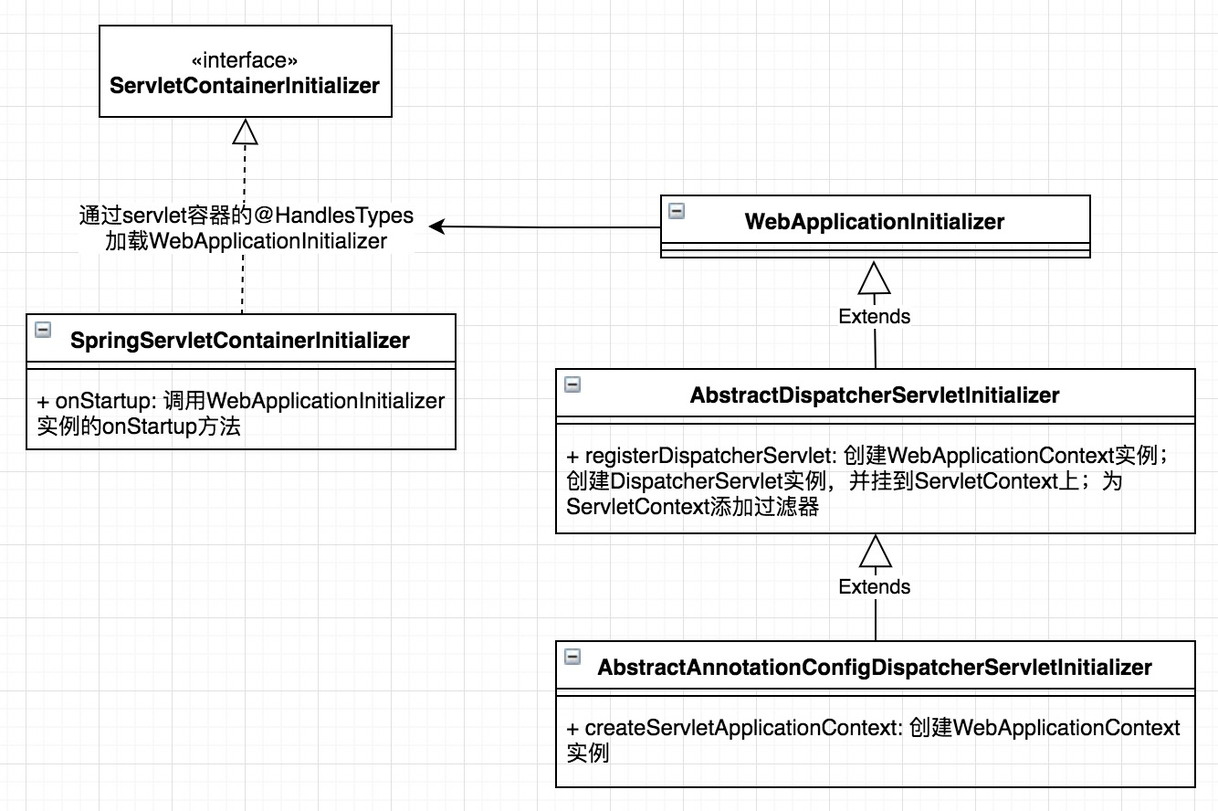
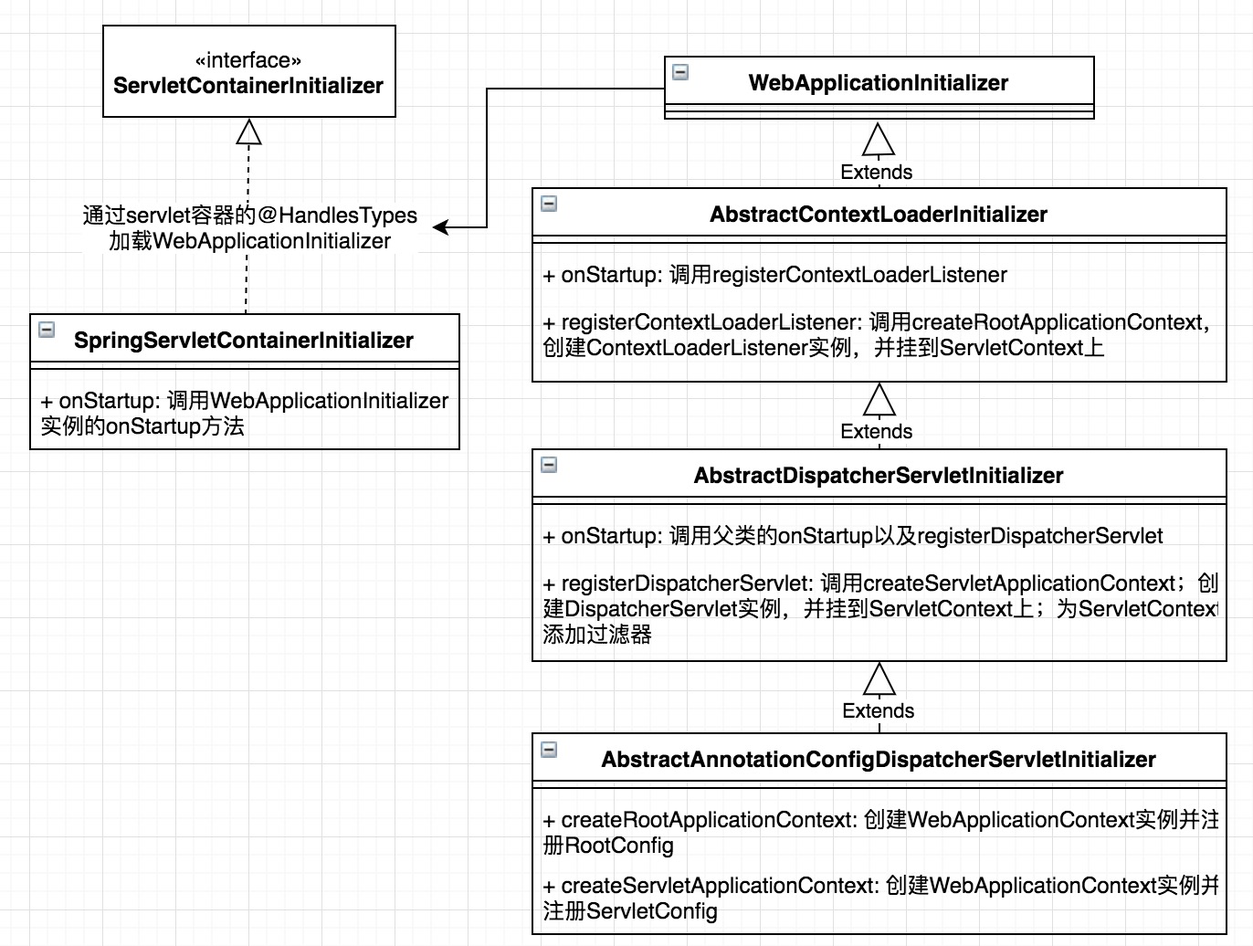
Site updated: 2020-01-02 22:59:12

diff --git a/2020/01/01/java/我看 spring mvc/index.html b/2020/01/01/java/我看 spring mvc/index.html
@@ -103,22 +103,22 @@
   <meta name="keywords" content="analyst,">
 
 
-<meta name="description" content="spring mvc 基于 前端控制器模式 设计，通过 DispatcherServlet 这个前端控制器将请求交给可配置的委托组件处理，这就能支持请求处理的灵活性。DispatcherServlet 中请求映射、视图解析、异常处理等功能所使用的组件都通过 spring 机制发现。 why@EnableWebMvc@EnableWebMvc 注解会通过 @Import 加载配置类，配置类又会主动查">
+<meta name="description" content="spring mvc 基于 前端控制器模式 设计，通过 DispatcherServlet 这个前端控制器将请求交给可配置的委托组件处理，这就能支持请求处理的灵活性。DispatcherServlet 中请求映射、视图解析、异常处理等功能所使用的组件都通过 spring 机制发现。 whyDispatcherServlet 初始化Servlet3 会主动查询 WebApplicationIniti">
 <meta name="keywords" content="analyst">
 <meta property="og:type" content="article">
 <meta property="og:title" content="我看 spring mvc">
 <meta property="og:url" content="http://yoursite.com/2020/01/01/java/我看 spring mvc/index.html">
 <meta property="og:site_name" content="修子范语">
-<meta property="og:description" content="spring mvc 基于 前端控制器模式 设计，通过 DispatcherServlet 这个前端控制器将请求交给可配置的委托组件处理，这就能支持请求处理的灵活性。DispatcherServlet 中请求映射、视图解析、异常处理等功能所使用的组件都通过 spring 机制发现。 why@EnableWebMvc@EnableWebMvc 注解会通过 @Import 加载配置类，配置类又会主动查">
+<meta property="og:description" content="spring mvc 基于 前端控制器模式 设计，通过 DispatcherServlet 这个前端控制器将请求交给可配置的委托组件处理，这就能支持请求处理的灵活性。DispatcherServlet 中请求映射、视图解析、异常处理等功能所使用的组件都通过 spring 机制发现。 whyDispatcherServlet 初始化Servlet3 会主动查询 WebApplicationIniti">
 <meta property="og:locale" content="zh-CN">
-<meta property="og:image" content="http://yoursite.com/2020/01/01/java/我看%20spring%20mvc/enablewebmvc.png">
 <meta property="og:image" content="http://yoursite.com/2020/01/01/java/我看%20spring%20mvc/dispatchservlet2.png">
+<meta property="og:image" content="http://yoursite.com/2020/01/01/java/我看%20spring%20mvc/enablewebmvc.png">
 <meta property="og:image" content="http://yoursite.com/2020/01/01/java/我看%20spring%20mvc/dispatchservlet.png">
-<meta property="og:updated_time" content="2020-01-01T14:49:15.448Z">
+<meta property="og:updated_time" content="2020-01-02T14:51:03.329Z">
 <meta name="twitter:card" content="summary">
 <meta name="twitter:title" content="我看 spring mvc">
-<meta name="twitter:description" content="spring mvc 基于 前端控制器模式 设计，通过 DispatcherServlet 这个前端控制器将请求交给可配置的委托组件处理，这就能支持请求处理的灵活性。DispatcherServlet 中请求映射、视图解析、异常处理等功能所使用的组件都通过 spring 机制发现。 why@EnableWebMvc@EnableWebMvc 注解会通过 @Import 加载配置类，配置类又会主动查">
-<meta name="twitter:image" content="http://yoursite.com/2020/01/01/java/我看%20spring%20mvc/enablewebmvc.png">
+<meta name="twitter:description" content="spring mvc 基于 前端控制器模式 设计，通过 DispatcherServlet 这个前端控制器将请求交给可配置的委托组件处理，这就能支持请求处理的灵活性。DispatcherServlet 中请求映射、视图解析、异常处理等功能所使用的组件都通过 spring 机制发现。 whyDispatcherServlet 初始化Servlet3 会主动查询 WebApplicationIniti">
+<meta name="twitter:image" content="http://yoursite.com/2020/01/01/java/我看%20spring%20mvc/dispatchservlet2.png">
 
 
 
@@ -399,9 +399,12 @@
 
       
         <p>spring mvc 基于 <a href="https://www.jianshu.com/p/11cbdc87900c" target="_blank" rel="noopener">前端控制器模式</a> 设计，通过 DispatcherServlet 这个前端控制器将请求交给可配置的委托组件处理，这就能支持请求处理的灵活性。DispatcherServlet 中请求映射、视图解析、异常处理等功能所使用的组件都通过 spring 机制发现。</p>
-<h2 id="why"><a href="#why" class="headerlink" title="why"></a>why</h2><h3 id="EnableWebMvc"><a href="#EnableWebMvc" class="headerlink" title="@EnableWebMvc"></a>@EnableWebMvc</h3><p>@EnableWebMvc 注解会通过 @Import 加载配置类，配置类又会主动查找添加了 @Controller、@RestController 注解的 bean，并注册到 HandlerMapping 中，以便在请求触达时使用。</p>
+<h2 id="why"><a href="#why" class="headerlink" title="why"></a>why</h2><h3 id="DispatcherServlet-初始化"><a href="#DispatcherServlet-初始化" class="headerlink" title="DispatcherServlet 初始化"></a>DispatcherServlet 初始化</h3><p>Servlet3 会主动查询 WebApplicationInitializer 接口的实现类，同时会执行 WebApplicationInitializer 实现类的 onStartup 方法。通过该方法，它会创建 spring 应用上下文并加载 bean（两个应用上下文：一个为 DispatcherServlet 加载控制器、视图解析器；一个加载中间层和数据层组件），它同时会创建 DispatcherServlet 实例，且将 DispatcherServlet 实例和 web 过滤器挂载到 ServletContext 上。</p>
+<img src="/2020/01/01/java/我看%20spring%20mvc/dispatchservlet2.png">
+<h4 id="应用"><a href="#应用" class="headerlink" title="应用"></a>应用</h4><p>以下示例单纯使用 spring + spring webmvc 的场景，没有使用 spring boot。</p>
+<figure class="highlight java"><table><tr><td class="gutter"><pre><span class="line">1</span><br><span class="line">2</span><br><span class="line">3</span><br><span class="line">4</span><br><span class="line">5</span><br><span class="line">6</span><br><span class="line">7</span><br><span class="line">8</span><br><span class="line">9</span><br><span class="line">10</span><br><span class="line">11</span><br><span class="line">12</span><br><span class="line">13</span><br><span class="line">14</span><br><span class="line">15</span><br><span class="line">16</span><br><span class="line">17</span><br><span class="line">18</span><br><span class="line">19</span><br><span class="line">20</span><br><span class="line">21</span><br><span class="line">22</span><br><span class="line">23</span><br><span class="line">24</span><br><span class="line">25</span><br></pre></td><td class="code"><pre><span class="line"><span class="keyword">public</span> <span class="class"><span class="keyword">class</span> <span class="title">MyWebAppInitializer</span> <span class="keyword">extends</span> <span class="title">AbstractAnnotationConfigDispatcherServletInitializer</span> </span>&#123;</span><br><span class="line">  <span class="comment">// 为其中一个 spring 应用上下文（加载数据层组件）指定 RootConfig 配置类</span></span><br><span class="line">  <span class="meta">@Override</span></span><br><span class="line">  <span class="keyword">protected</span> Class&lt;?&gt;[] getRootConfigClasses() &#123;</span><br><span class="line">    <span class="keyword">return</span> <span class="keyword">null</span>;</span><br><span class="line">  &#125;</span><br><span class="line"></span><br><span class="line">  <span class="comment">// 为其中一个 spring 应用上下文（加载控制器）指定 ServletConfig 配置类</span></span><br><span class="line">  <span class="meta">@Override</span></span><br><span class="line">  <span class="keyword">protected</span> Class&lt;?&gt;[] getServletConfigClasses() &#123;</span><br><span class="line">    <span class="keyword">return</span> <span class="keyword">new</span> Class&lt;?&gt;[] &#123; MyWebConfig.class &#125;;</span><br><span class="line">  &#125;</span><br><span class="line"></span><br><span class="line">  <span class="comment">// 指定 DispatcherServlet 处理的路由</span></span><br><span class="line">  <span class="meta">@Override</span></span><br><span class="line">  <span class="keyword">protected</span> String[] getServletMappings() &#123;</span><br><span class="line">    <span class="keyword">return</span> <span class="keyword">new</span> String[] &#123; <span class="string">"/"</span> &#125;;</span><br><span class="line">  &#125;</span><br><span class="line"></span><br><span class="line">  <span class="comment">// 指定过滤器</span></span><br><span class="line">  <span class="meta">@Override</span></span><br><span class="line">  <span class="keyword">protected</span> Filter[] getServletFilters() &#123;</span><br><span class="line">    <span class="keyword">return</span> <span class="keyword">new</span> Filter[] &#123; <span class="keyword">new</span> HiddenHttpMethodFilter() &#125;;</span><br><span class="line">  &#125;</span><br><span class="line">&#125;</span><br></pre></td></tr></table></figure>
+<h3 id="EnableWebMvc"><a href="#EnableWebMvc" class="headerlink" title="@EnableWebMvc"></a>@EnableWebMvc</h3><p>@EnableWebMvc 注解会通过 @Import 加载配置类，配置类又会主动查找添加了 @Controller、@RestController 注解的 bean，并注册到 HandlerMapping 中，以便在请求触达时使用。</p>
 <img src="/2020/01/01/java/我看%20spring%20mvc/enablewebmvc.png">
-<h3 id="DispatcherServlet-初始化"><a href="#DispatcherServlet-初始化" class="headerlink" title="DispatcherServlet 初始化"></a>DispatcherServlet 初始化</h3><img src="/2020/01/01/java/我看%20spring%20mvc/dispatchservlet2.png">
 <h3 id="DispatcherServlet-处理请求"><a href="#DispatcherServlet-处理请求" class="headerlink" title="DispatcherServlet 处理请求"></a>DispatcherServlet 处理请求</h3><ol>
 <li>请求触达，DispatcherServlet#doGet 等方法接受到请求。</li>
 <li>DispatcherServlet#doDispatch 阶段，路由找出 Handler（即 Controller）。</li>
@@ -417,7 +420,7 @@
 <li>ViewResolver 视图解析器；LocaleResolver, LocaleContextResolver 国际化；ThemeResolver 个性化；MultipartResolver 解析文件上传请求；FlashMapManager 闪存。</li>
 </ul>
 <figure class="highlight java"><table><tr><td class="gutter"><pre><span class="line">1</span><br><span class="line">2</span><br><span class="line">3</span><br><span class="line">4</span><br><span class="line">5</span><br><span class="line">6</span><br><span class="line">7</span><br><span class="line">8</span><br><span class="line">9</span><br><span class="line">10</span><br><span class="line">11</span><br><span class="line">12</span><br><span class="line">13</span><br><span class="line">14</span><br><span class="line">15</span><br><span class="line">16</span><br><span class="line">17</span><br><span class="line">18</span><br><span class="line">19</span><br><span class="line">20</span><br><span class="line">21</span><br><span class="line">22</span><br><span class="line">23</span><br><span class="line">24</span><br><span class="line">25</span><br><span class="line">26</span><br><span class="line">27</span><br><span class="line">28</span><br><span class="line">29</span><br><span class="line">30</span><br><span class="line">31</span><br><span class="line">32</span><br><span class="line">33</span><br><span class="line">34</span><br><span class="line">35</span><br><span class="line">36</span><br><span class="line">37</span><br><span class="line">38</span><br><span class="line">39</span><br><span class="line">40</span><br><span class="line">41</span><br><span class="line">42</span><br><span class="line">43</span><br><span class="line">44</span><br><span class="line">45</span><br><span class="line">46</span><br><span class="line">47</span><br><span class="line">48</span><br></pre></td><td class="code"><pre><span class="line"><span class="keyword">public</span> <span class="keyword">abstract</span> <span class="class"><span class="keyword">class</span> <span class="title">FrameworkServlet</span> <span class="keyword">extends</span> <span class="title">HttpServletBean</span> <span class="keyword">implements</span> <span class="title">ApplicationContextAware</span> </span>&#123;</span><br><span class="line">  <span class="comment">// 重新加载应用的配置，作为 startup 方法</span></span><br><span class="line">	<span class="function"><span class="keyword">public</span> <span class="keyword">void</span> <span class="title">refresh</span><span class="params">()</span> </span>&#123;</span><br><span class="line">		WebApplicationContext wac = getWebApplicationContext();</span><br><span class="line">		<span class="keyword">if</span> (!(wac <span class="keyword">instanceof</span> ConfigurableApplicationContext)) &#123;</span><br><span class="line">			<span class="keyword">throw</span> <span class="keyword">new</span> IllegalStateException(<span class="string">"WebApplicationContext does not support refresh: "</span> + wac);</span><br><span class="line">		&#125;</span><br><span class="line">		((ConfigurableApplicationContext) wac).refresh();</span><br><span class="line">	&#125;</span><br><span class="line"></span><br><span class="line">  <span class="comment">// 其他 doPost、doPut、doDelete 等方法都会调用 processRequest</span></span><br><span class="line">	<span class="meta">@Override</span></span><br><span class="line">	<span class="function"><span class="keyword">protected</span> <span class="keyword">final</span> <span class="keyword">void</span> <span class="title">doGet</span><span class="params">(HttpServletRequest request, HttpServletResponse response)</span></span></span><br><span class="line"><span class="function">			<span class="keyword">throws</span> ServletException, IOException </span>&#123;</span><br><span class="line">		processRequest(request, response);</span><br><span class="line">	&#125;</span><br><span class="line"></span><br><span class="line">	<span class="function"><span class="keyword">protected</span> <span class="keyword">final</span> <span class="keyword">void</span> <span class="title">processRequest</span><span class="params">(HttpServletRequest request, HttpServletResponse response)</span></span></span><br><span class="line"><span class="function">			<span class="keyword">throws</span> ServletException, IOException </span>&#123;</span><br><span class="line">    <span class="comment">// ...</span></span><br><span class="line">    <span class="keyword">try</span> &#123; doService(request, response); &#125;</span><br><span class="line">  &#125;</span><br><span class="line">&#125;</span><br><span class="line"></span><br><span class="line"><span class="keyword">public</span> <span class="class"><span class="keyword">class</span> <span class="title">DispatcherServlet</span> <span class="keyword">extends</span> <span class="title">FrameworkServlet</span> </span>&#123;</span><br><span class="line">	<span class="meta">@Override</span></span><br><span class="line">	<span class="function"><span class="keyword">protected</span> <span class="keyword">void</span> <span class="title">doService</span><span class="params">(HttpServletRequest request, HttpServletResponse response)</span> <span class="keyword">throws</span> Exception </span>&#123;</span><br><span class="line">    <span class="comment">// ...</span></span><br><span class="line">    <span class="keyword">try</span> &#123; doDispatch(request, response); &#125;</span><br><span class="line">  &#125;</span><br><span class="line"></span><br><span class="line">	<span class="function"><span class="keyword">protected</span> <span class="keyword">void</span> <span class="title">doDispatch</span><span class="params">(HttpServletRequest request, HttpServletResponse response)</span> <span class="keyword">throws</span> Exception </span>&#123;</span><br><span class="line">		mappedHandler = getHandler(processedRequest);</span><br><span class="line"></span><br><span class="line">    HandlerAdapter ha = getHandlerAdapter(mappedHandler.getHandler());</span><br><span class="line">    </span><br><span class="line">    <span class="keyword">if</span> (!mappedHandler.applyPreHandle(processedRequest, response)) &#123;</span><br><span class="line">      <span class="keyword">return</span>;</span><br><span class="line">    &#125;</span><br><span class="line"></span><br><span class="line">    mv = ha.handle(processedRequest, response, mappedHandler.getHandler());</span><br><span class="line"></span><br><span class="line">    applyDefaultViewName(processedRequest, mv);</span><br><span class="line">    mappedHandler.applyPostHandle(processedRequest, response, mv);</span><br><span class="line"></span><br><span class="line">    processDispatchResult(processedRequest, response, mappedHandler, mv, dispatchException);</span><br><span class="line">  &#125;</span><br><span class="line">&#125;</span><br></pre></td></tr></table></figure>
-<h2 id="参考"><a href="#参考" class="headerlink" title="参考"></a>参考</h2><p><a href="https://www.jianshu.com/p/6433a07f909c" target="_blank" rel="noopener">理解SpringMvc架构以及流程</a><br><a href="https://blog.csdn.net/u010013573/article/details/86550326" target="_blank" rel="noopener">Spring MVC源码分析（四）：SpringMVC的HandlerMapping和HandlerAdapter的体系结构设计与实现</a><br><a href="https://blog.csdn.net/qq_32328959/article/details/90247411" target="_blank" rel="noopener">Spring Web MVC（一）|前端控制器-DispatcherServlet</a></p>
+<h2 id="参考"><a href="#参考" class="headerlink" title="参考"></a>参考</h2><p><a href="https://docs.spring.io/spring/docs/current/spring-framework-reference/web.html#mvc" target="_blank" rel="noopener">spring 官方文档</a><br><a href="https://www.jianshu.com/p/6433a07f909c" target="_blank" rel="noopener">理解SpringMvc架构以及流程</a><br><a href="https://blog.csdn.net/u010013573/article/details/86550326" target="_blank" rel="noopener">Spring MVC源码分析（四）：SpringMVC的HandlerMapping和HandlerAdapter的体系结构设计与实现</a><br><a href="https://blog.csdn.net/qq_32328959/article/details/90247411" target="_blank" rel="noopener">Spring Web MVC（一）|前端控制器-DispatcherServlet</a></p>
 
       
     </div>
@@ -616,7 +619,7 @@
             
 
             
-              <div class="post-toc-content"><ol class="nav"><li class="nav-item nav-level-2"><a class="nav-link" href="#why"><span class="nav-number">1.</span> <span class="nav-text">why</span></a><ol class="nav-child"><li class="nav-item nav-level-3"><a class="nav-link" href="#EnableWebMvc"><span class="nav-number">1.1.</span> <span class="nav-text">@EnableWebMvc</span></a></li><li class="nav-item nav-level-3"><a class="nav-link" href="#DispatcherServlet-初始化"><span class="nav-number">1.2.</span> <span class="nav-text">DispatcherServlet 初始化</span></a></li><li class="nav-item nav-level-3"><a class="nav-link" href="#DispatcherServlet-处理请求"><span class="nav-number">1.3.</span> <span class="nav-text">DispatcherServlet 处理请求</span></a></li></ol></li><li class="nav-item nav-level-2"><a class="nav-link" href="#参考"><span class="nav-number">2.</span> <span class="nav-text">参考</span></a></li></ol></div>
+              <div class="post-toc-content"><ol class="nav"><li class="nav-item nav-level-2"><a class="nav-link" href="#why"><span class="nav-number">1.</span> <span class="nav-text">why</span></a><ol class="nav-child"><li class="nav-item nav-level-3"><a class="nav-link" href="#DispatcherServlet-初始化"><span class="nav-number">1.1.</span> <span class="nav-text">DispatcherServlet 初始化</span></a><ol class="nav-child"><li class="nav-item nav-level-4"><a class="nav-link" href="#应用"><span class="nav-number">1.1.1.</span> <span class="nav-text">应用</span></a></li></ol></li><li class="nav-item nav-level-3"><a class="nav-link" href="#EnableWebMvc"><span class="nav-number">1.2.</span> <span class="nav-text">@EnableWebMvc</span></a></li><li class="nav-item nav-level-3"><a class="nav-link" href="#DispatcherServlet-处理请求"><span class="nav-number">1.3.</span> <span class="nav-text">DispatcherServlet 处理请求</span></a></li></ol></li><li class="nav-item nav-level-2"><a class="nav-link" href="#参考"><span class="nav-number">2.</span> <span class="nav-text">参考</span></a></li></ol></div>
             
 
           </div>

diff --git a/index.html b/index.html
@@ -398,9 +398,12 @@
         
           
             <p>spring mvc 基于 <a href="https://www.jianshu.com/p/11cbdc87900c" target="_blank" rel="noopener">前端控制器模式</a> 设计，通过 DispatcherServlet 这个前端控制器将请求交给可配置的委托组件处理，这就能支持请求处理的灵活性。DispatcherServlet 中请求映射、视图解析、异常处理等功能所使用的组件都通过 spring 机制发现。</p>
-<h2 id="why"><a href="#why" class="headerlink" title="why"></a>why</h2><h3 id="EnableWebMvc"><a href="#EnableWebMvc" class="headerlink" title="@EnableWebMvc"></a>@EnableWebMvc</h3><p>@EnableWebMvc 注解会通过 @Import 加载配置类，配置类又会主动查找添加了 @Controller、@RestController 注解的 bean，并注册到 HandlerMapping 中，以便在请求触达时使用。</p>
+<h2 id="why"><a href="#why" class="headerlink" title="why"></a>why</h2><h3 id="DispatcherServlet-初始化"><a href="#DispatcherServlet-初始化" class="headerlink" title="DispatcherServlet 初始化"></a>DispatcherServlet 初始化</h3><p>Servlet3 会主动查询 WebApplicationInitializer 接口的实现类，同时会执行 WebApplicationInitializer 实现类的 onStartup 方法。通过该方法，它会创建 spring 应用上下文并加载 bean（两个应用上下文：一个为 DispatcherServlet 加载控制器、视图解析器；一个加载中间层和数据层组件），它同时会创建 DispatcherServlet 实例，且将 DispatcherServlet 实例和 web 过滤器挂载到 ServletContext 上。</p>
+<img src="/2020/01/01/java/我看%20spring%20mvc/dispatchservlet2.png">
+<h4 id="应用"><a href="#应用" class="headerlink" title="应用"></a>应用</h4><p>以下示例单纯使用 spring + spring webmvc 的场景，没有使用 spring boot。</p>
+<figure class="highlight java"><table><tr><td class="gutter"><pre><span class="line">1</span><br><span class="line">2</span><br><span class="line">3</span><br><span class="line">4</span><br><span class="line">5</span><br><span class="line">6</span><br><span class="line">7</span><br><span class="line">8</span><br><span class="line">9</span><br><span class="line">10</span><br><span class="line">11</span><br><span class="line">12</span><br><span class="line">13</span><br><span class="line">14</span><br><span class="line">15</span><br><span class="line">16</span><br><span class="line">17</span><br><span class="line">18</span><br><span class="line">19</span><br><span class="line">20</span><br><span class="line">21</span><br><span class="line">22</span><br><span class="line">23</span><br><span class="line">24</span><br><span class="line">25</span><br></pre></td><td class="code"><pre><span class="line"><span class="keyword">public</span> <span class="class"><span class="keyword">class</span> <span class="title">MyWebAppInitializer</span> <span class="keyword">extends</span> <span class="title">AbstractAnnotationConfigDispatcherServletInitializer</span> </span>&#123;</span><br><span class="line">  <span class="comment">// 为其中一个 spring 应用上下文（加载数据层组件）指定 RootConfig 配置类</span></span><br><span class="line">  <span class="meta">@Override</span></span><br><span class="line">  <span class="keyword">protected</span> Class&lt;?&gt;[] getRootConfigClasses() &#123;</span><br><span class="line">    <span class="keyword">return</span> <span class="keyword">null</span>;</span><br><span class="line">  &#125;</span><br><span class="line"></span><br><span class="line">  <span class="comment">// 为其中一个 spring 应用上下文（加载控制器）指定 ServletConfig 配置类</span></span><br><span class="line">  <span class="meta">@Override</span></span><br><span class="line">  <span class="keyword">protected</span> Class&lt;?&gt;[] getServletConfigClasses() &#123;</span><br><span class="line">    <span class="keyword">return</span> <span class="keyword">new</span> Class&lt;?&gt;[] &#123; MyWebConfig.class &#125;;</span><br><span class="line">  &#125;</span><br><span class="line"></span><br><span class="line">  <span class="comment">// 指定 DispatcherServlet 处理的路由</span></span><br><span class="line">  <span class="meta">@Override</span></span><br><span class="line">  <span class="keyword">protected</span> String[] getServletMappings() &#123;</span><br><span class="line">    <span class="keyword">return</span> <span class="keyword">new</span> String[] &#123; <span class="string">"/"</span> &#125;;</span><br><span class="line">  &#125;</span><br><span class="line"></span><br><span class="line">  <span class="comment">// 指定过滤器</span></span><br><span class="line">  <span class="meta">@Override</span></span><br><span class="line">  <span class="keyword">protected</span> Filter[] getServletFilters() &#123;</span><br><span class="line">    <span class="keyword">return</span> <span class="keyword">new</span> Filter[] &#123; <span class="keyword">new</span> HiddenHttpMethodFilter() &#125;;</span><br><span class="line">  &#125;</span><br><span class="line">&#125;</span><br></pre></td></tr></table></figure>
+<h3 id="EnableWebMvc"><a href="#EnableWebMvc" class="headerlink" title="@EnableWebMvc"></a>@EnableWebMvc</h3><p>@EnableWebMvc 注解会通过 @Import 加载配置类，配置类又会主动查找添加了 @Controller、@RestController 注解的 bean，并注册到 HandlerMapping 中，以便在请求触达时使用。</p>
 <img src="/2020/01/01/java/我看%20spring%20mvc/enablewebmvc.png">
-<h3 id="DispatcherServlet-初始化"><a href="#DispatcherServlet-初始化" class="headerlink" title="DispatcherServlet 初始化"></a>DispatcherServlet 初始化</h3><img src="/2020/01/01/java/我看%20spring%20mvc/dispatchservlet2.png">
 <h3 id="DispatcherServlet-处理请求"><a href="#DispatcherServlet-处理请求" class="headerlink" title="DispatcherServlet 处理请求"></a>DispatcherServlet 处理请求</h3><ol>
 <li>请求触达，DispatcherServlet#doGet 等方法接受到请求。</li>
 <li>DispatcherServlet#doDispatch 阶段，路由找出 Handler（即 Controller）。</li>
@@ -416,7 +419,7 @@
 <li>ViewResolver 视图解析器；LocaleResolver, LocaleContextResolver 国际化；ThemeResolver 个性化；MultipartResolver 解析文件上传请求；FlashMapManager 闪存。</li>
 </ul>
 <figure class="highlight java"><table><tr><td class="gutter"><pre><span class="line">1</span><br><span class="line">2</span><br><span class="line">3</span><br><span class="line">4</span><br><span class="line">5</span><br><span class="line">6</span><br><span class="line">7</span><br><span class="line">8</span><br><span class="line">9</span><br><span class="line">10</span><br><span class="line">11</span><br><span class="line">12</span><br><span class="line">13</span><br><span class="line">14</span><br><span class="line">15</span><br><span class="line">16</span><br><span class="line">17</span><br><span class="line">18</span><br><span class="line">19</span><br><span class="line">20</span><br><span class="line">21</span><br><span class="line">22</span><br><span class="line">23</span><br><span class="line">24</span><br><span class="line">25</span><br><span class="line">26</span><br><span class="line">27</span><br><span class="line">28</span><br><span class="line">29</span><br><span class="line">30</span><br><span class="line">31</span><br><span class="line">32</span><br><span class="line">33</span><br><span class="line">34</span><br><span class="line">35</span><br><span class="line">36</span><br><span class="line">37</span><br><span class="line">38</span><br><span class="line">39</span><br><span class="line">40</span><br><span class="line">41</span><br><span class="line">42</span><br><span class="line">43</span><br><span class="line">44</span><br><span class="line">45</span><br><span class="line">46</span><br><span class="line">47</span><br><span class="line">48</span><br></pre></td><td class="code"><pre><span class="line"><span class="keyword">public</span> <span class="keyword">abstract</span> <span class="class"><span class="keyword">class</span> <span class="title">FrameworkServlet</span> <span class="keyword">extends</span> <span class="title">HttpServletBean</span> <span class="keyword">implements</span> <span class="title">ApplicationContextAware</span> </span>&#123;</span><br><span class="line">  <span class="comment">// 重新加载应用的配置，作为 startup 方法</span></span><br><span class="line">	<span class="function"><span class="keyword">public</span> <span class="keyword">void</span> <span class="title">refresh</span><span class="params">()</span> </span>&#123;</span><br><span class="line">		WebApplicationContext wac = getWebApplicationContext();</span><br><span class="line">		<span class="keyword">if</span> (!(wac <span class="keyword">instanceof</span> ConfigurableApplicationContext)) &#123;</span><br><span class="line">			<span class="keyword">throw</span> <span class="keyword">new</span> IllegalStateException(<span class="string">"WebApplicationContext does not support refresh: "</span> + wac);</span><br><span class="line">		&#125;</span><br><span class="line">		((ConfigurableApplicationContext) wac).refresh();</span><br><span class="line">	&#125;</span><br><span class="line"></span><br><span class="line">  <span class="comment">// 其他 doPost、doPut、doDelete 等方法都会调用 processRequest</span></span><br><span class="line">	<span class="meta">@Override</span></span><br><span class="line">	<span class="function"><span class="keyword">protected</span> <span class="keyword">final</span> <span class="keyword">void</span> <span class="title">doGet</span><span class="params">(HttpServletRequest request, HttpServletResponse response)</span></span></span><br><span class="line"><span class="function">			<span class="keyword">throws</span> ServletException, IOException </span>&#123;</span><br><span class="line">		processRequest(request, response);</span><br><span class="line">	&#125;</span><br><span class="line"></span><br><span class="line">	<span class="function"><span class="keyword">protected</span> <span class="keyword">final</span> <span class="keyword">void</span> <span class="title">processRequest</span><span class="params">(HttpServletRequest request, HttpServletResponse response)</span></span></span><br><span class="line"><span class="function">			<span class="keyword">throws</span> ServletException, IOException </span>&#123;</span><br><span class="line">    <span class="comment">// ...</span></span><br><span class="line">    <span class="keyword">try</span> &#123; doService(request, response); &#125;</span><br><span class="line">  &#125;</span><br><span class="line">&#125;</span><br><span class="line"></span><br><span class="line"><span class="keyword">public</span> <span class="class"><span class="keyword">class</span> <span class="title">DispatcherServlet</span> <span class="keyword">extends</span> <span class="title">FrameworkServlet</span> </span>&#123;</span><br><span class="line">	<span class="meta">@Override</span></span><br><span class="line">	<span class="function"><span class="keyword">protected</span> <span class="keyword">void</span> <span class="title">doService</span><span class="params">(HttpServletRequest request, HttpServletResponse response)</span> <span class="keyword">throws</span> Exception </span>&#123;</span><br><span class="line">    <span class="comment">// ...</span></span><br><span class="line">    <span class="keyword">try</span> &#123; doDispatch(request, response); &#125;</span><br><span class="line">  &#125;</span><br><span class="line"></span><br><span class="line">	<span class="function"><span class="keyword">protected</span> <span class="keyword">void</span> <span class="title">doDispatch</span><span class="params">(HttpServletRequest request, HttpServletResponse response)</span> <span class="keyword">throws</span> Exception </span>&#123;</span><br><span class="line">		mappedHandler = getHandler(processedRequest);</span><br><span class="line"></span><br><span class="line">    HandlerAdapter ha = getHandlerAdapter(mappedHandler.getHandler());</span><br><span class="line">    </span><br><span class="line">    <span class="keyword">if</span> (!mappedHandler.applyPreHandle(processedRequest, response)) &#123;</span><br><span class="line">      <span class="keyword">return</span>;</span><br><span class="line">    &#125;</span><br><span class="line"></span><br><span class="line">    mv = ha.handle(processedRequest, response, mappedHandler.getHandler());</span><br><span class="line"></span><br><span class="line">    applyDefaultViewName(processedRequest, mv);</span><br><span class="line">    mappedHandler.applyPostHandle(processedRequest, response, mv);</span><br><span class="line"></span><br><span class="line">    processDispatchResult(processedRequest, response, mappedHandler, mv, dispatchException);</span><br><span class="line">  &#125;</span><br><span class="line">&#125;</span><br></pre></td></tr></table></figure>
-<h2 id="参考"><a href="#参考" class="headerlink" title="参考"></a>参考</h2><p><a href="https://www.jianshu.com/p/6433a07f909c" target="_blank" rel="noopener">理解SpringMvc架构以及流程</a><br><a href="https://blog.csdn.net/u010013573/article/details/86550326" target="_blank" rel="noopener">Spring MVC源码分析（四）：SpringMVC的HandlerMapping和HandlerAdapter的体系结构设计与实现</a><br><a href="https://blog.csdn.net/qq_32328959/article/details/90247411" target="_blank" rel="noopener">Spring Web MVC（一）|前端控制器-DispatcherServlet</a></p>
+<h2 id="参考"><a href="#参考" class="headerlink" title="参考"></a>参考</h2><p><a href="https://docs.spring.io/spring/docs/current/spring-framework-reference/web.html#mvc" target="_blank" rel="noopener">spring 官方文档</a><br><a href="https://www.jianshu.com/p/6433a07f909c" target="_blank" rel="noopener">理解SpringMvc架构以及流程</a><br><a href="https://blog.csdn.net/u010013573/article/details/86550326" target="_blank" rel="noopener">Spring MVC源码分析（四）：SpringMVC的HandlerMapping和HandlerAdapter的体系结构设计与实现</a><br><a href="https://blog.csdn.net/qq_32328959/article/details/90247411" target="_blank" rel="noopener">Spring Web MVC（一）|前端控制器-DispatcherServlet</a></p>
 
           
         

diff --git a/categories/index.html b/categories/index.html
@@ -325,9 +325,9 @@
                   
                 
                   
-                
-                  
                     
+                  
+                
                   
                 
                   

diff --git a/tags/index.html b/tags/index.html
@@ -321,9 +321,9 @@
                   
                 
                   
-                
-                  
                     
+                  
+                
                   
                 
                   

diff --git a/css/main.css b/css/main.css
@@ -1816,7 +1816,7 @@ pre .javascript .function {
   width: 4px;
   height: 4px;
   border-radius: 50%;
-  background: #475bc2;
+  background: #ff62d2;
 }
 .links-of-blogroll {
   font-size: 13px;
